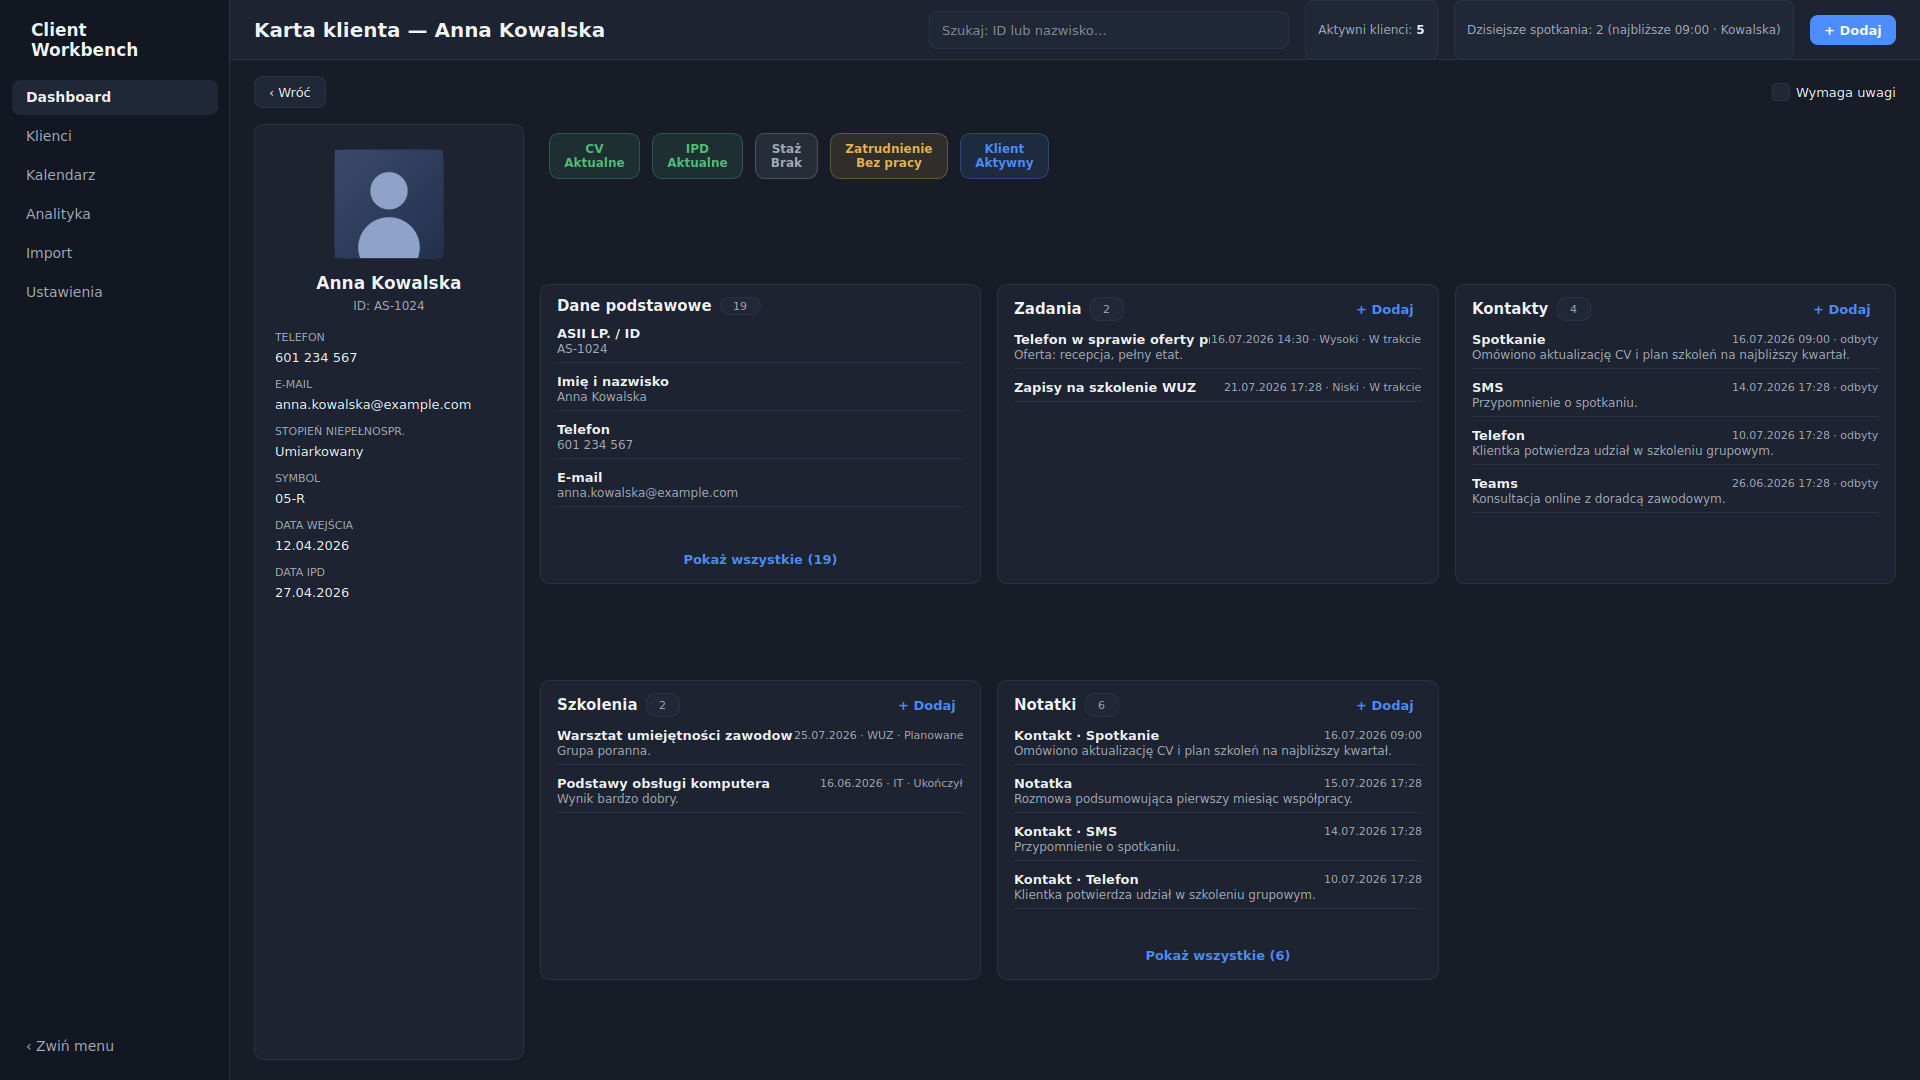
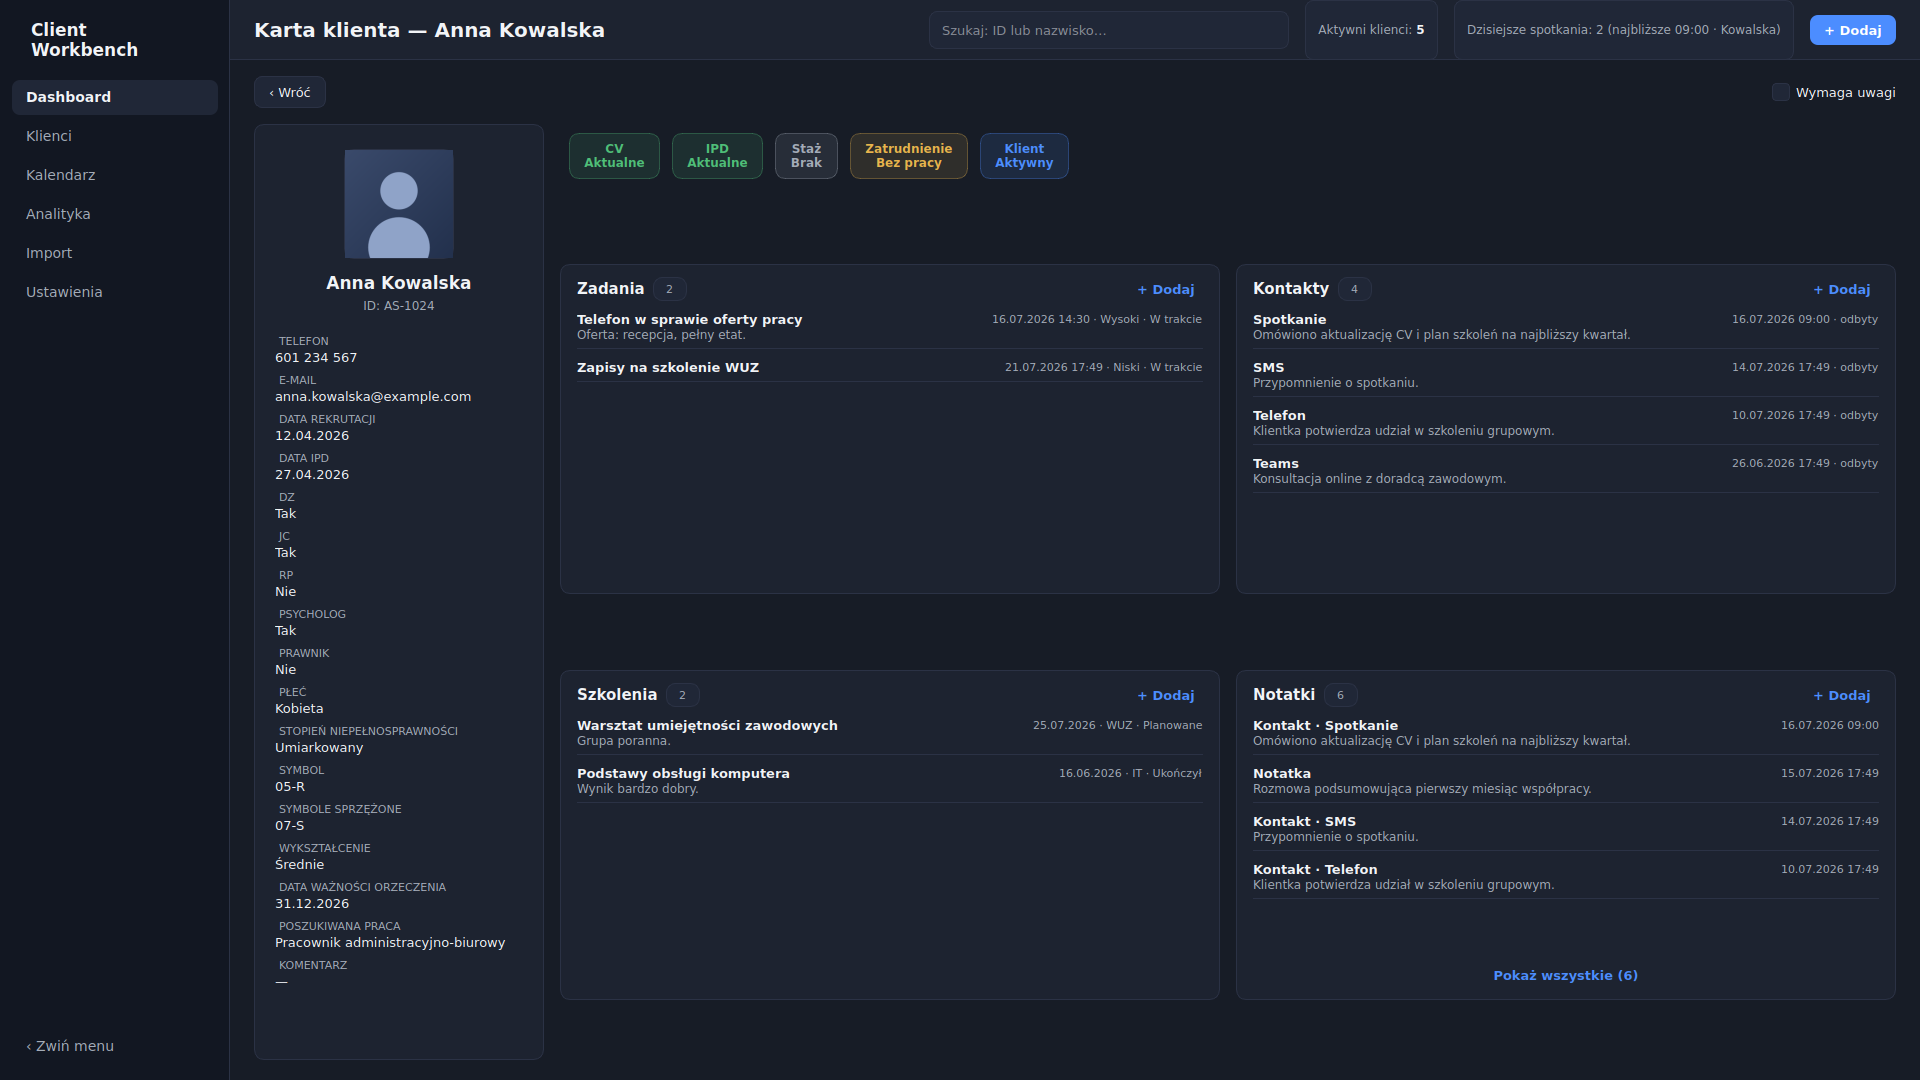
Karta klienta: komplet danych w lewej kolumnie, 4 symetryczne moduły 2x2; tabele bez zawijania tekstu
- dane podstawowe (XLSX/ręczne) w całości pod miniaturką, przewijalne
- moduł 'Dane podstawowe' usunięty z prawej części
- Zadania/Kontakty/Szkolenia/Notatki w siatce 2x2 równej wysokości
- tabele Dashboard/Klienci przycinają długi tekst z '…' zamiast łamać wiersze

Claude-Session: https://claude.ai/code/session_0111JaRPMQvjsJitfGePPiND

diff --git a/src/ui/pages/client_card_page.py b/src/ui/pages/client_card_page.py
@@ -38,9 +38,9 @@ from ui.dialogs.module_view import ModuleViewDialog
 from ui.styles.theme import Palette
 from ui.widgets.pills import QuickStatusPill
 
-LEFT_COLUMN_WIDTH = 270
+LEFT_COLUMN_WIDTH = 290
 PHOTO_SIZE = 110
-MODULE_HEIGHT = 300
+MODULE_HEIGHT = 330
 
 
 def _fmt_date(value) -> str:
@@ -108,25 +108,20 @@ class ClientCardPage(QWidget):
         self._id_lbl = QLabel()
         self._id_lbl.setAlignment(Qt.AlignmentFlag.AlignCenter)
         left_layout.addWidget(self._id_lbl)
-        left_layout.addSpacing(12)
+        left_layout.addSpacing(10)
 
-        self._info_rows: dict[str, QLabel] = {}
-        for key in (
-            "Telefon",
-            "E-mail",
-            "Stopień niepełnospr.",
-            "Symbol",
-            "Data wejścia",
-            "Data IPD",
-        ):
-            caption = QLabel(key)
-            value = QLabel("—")
-            value.setWordWrap(True)
-            value.setTextInteractionFlags(Qt.TextInteractionFlag.TextSelectableByMouse)
-            left_layout.addWidget(caption)
-            left_layout.addWidget(value)
-            left_layout.addSpacing(6)
-            self._info_rows[key] = value
+        # komplet danych podstawowych (import XLSX / ręczne) — przewijalna lista
+        info_scroll = QScrollArea()
+        info_scroll.setWidgetResizable(True)
+        info_scroll.setFrameShape(QFrame.Shape.NoFrame)
+        info_scroll.setStyleSheet("QScrollArea, QScrollArea > QWidget > QWidget { background: transparent; }")
+        info_host = QWidget()
+        self._info_layout = QVBoxLayout(info_host)
+        self._info_layout.setContentsMargins(0, 0, 8, 0)
+        self._info_layout.setSpacing(2)
+        self._info_layout.setAlignment(Qt.AlignmentFlag.AlignTop)
+        info_scroll.setWidget(info_host)
+        left_layout.addWidget(info_scroll, 1)
         self._style_left_labels()
 
         body.addWidget(self._left)
@@ -163,13 +158,25 @@ class ClientCardPage(QWidget):
     def _style_left_labels(self) -> None:
         p = self._palette
         self._id_lbl.setStyleSheet(f"color: {p.text_muted}; font-size: 12px;")
-        for key, value_lbl in self._info_rows.items():
+
+    def _fill_left_info(self) -> None:
+        """Wypełnia lewą kolumnę kompletem danych podstawowych klienta."""
+        c = self._client
+        assert c is not None
+        p = self._palette
+        _clear_layout(self._info_layout)
+        for label, value in self._basic_data_pairs():
+            caption = QLabel(label)
+            caption.setStyleSheet(
+                f"color: {p.text_muted}; font-size: 11px; text-transform: uppercase;"
+                "padding-top: 6px;"
+            )
+            value_lbl = QLabel(value)
+            value_lbl.setWordWrap(True)
+            value_lbl.setTextInteractionFlags(Qt.TextInteractionFlag.TextSelectableByMouse)
             value_lbl.setStyleSheet(f"font-size: 13px; color: {p.text};")
-        for caption in self._left.findChildren(QLabel):
-            if caption.text() in self._info_rows:
-                caption.setStyleSheet(
-                    f"color: {p.text_muted}; font-size: 11px; text-transform: uppercase;"
-                )
+            self._info_layout.addWidget(caption)
+            self._info_layout.addWidget(value_lbl)
 
     # ------------------------------------------------------------------
     def show_client(self, client_id: int) -> None:
@@ -201,12 +208,7 @@ class ClientCardPage(QWidget):
 
         self._name_lbl.setText(client.full_name)
         self._id_lbl.setText(f"ID: {client.external_id}")
-        self._info_rows["Telefon"].setText(client.phone or "—")
-        self._info_rows["E-mail"].setText(client.email or "—")
-        self._info_rows["Stopień niepełnospr."].setText(client.disability_degree or "—")
-        self._info_rows["Symbol"].setText(client.disability_symbol or "—")
-        self._info_rows["Data wejścia"].setText(_fmt_date(client.recruitment_date))
-        self._info_rows["Data IPD"].setText(_fmt_date(client.ipd_date))
+        self._fill_left_info()
 
         self._attention_check.blockSignals(True)
         self._attention_check.setChecked(client.requires_attention)
@@ -255,20 +257,17 @@ class ClientCardPage(QWidget):
 
         _clear_layout(self._grid)
 
+        # 4 symetryczne moduły w siatce 2x2 (dane podstawowe są w lewej kolumnie)
         modules = [
-            ("Dane podstawowe", self._basic_data_entries(), None),
             ("Zadania", self._task_entries(), "Zadanie"),
             ("Kontakty", self._contact_entries(), "Kontakt"),
             ("Szkolenia", self._training_entries(), "Szkolenie"),
             ("Notatki", self._note_entries(), "Notatka"),
         ]
         for index, (title, entries, add_kind) in enumerate(modules):
-            row, col = divmod(index, 3)
+            row, col = divmod(index, 2)
             self._grid.addWidget(self._module_card(title, entries, add_kind), row, col)
-        # wyrównanie: pusta komórka w drugim rzędzie zachowuje równe szerokości
-        filler = QWidget()
-        self._grid.addWidget(filler, 1, 2)
-        for col in range(3):
+        for col in range(2):
             self._grid.setColumnStretch(col, 1)
 
     def _module_card(
@@ -361,12 +360,11 @@ class ClientCardPage(QWidget):
         return row
 
     # ------------------------------------------------------------------
-    def _basic_data_entries(self) -> list[tuple[str, str, str]]:
+    def _basic_data_pairs(self) -> list[tuple[str, str]]:
         c = self._client
         assert c is not None
-        pairs = [
-            ("ASII LP. / ID", c.external_id),
-            ("Imię i nazwisko", c.full_name),
+        # imię, nazwisko i ID są już nad listą (przy zdjęciu)
+        return [
             ("Telefon", c.phone or "—"),
             ("E-mail", c.email or "—"),
             ("Data rekrutacji", _fmt_date(c.recruitment_date)),
@@ -385,7 +383,6 @@ class ClientCardPage(QWidget):
             ("Poszukiwana praca", c.desired_job or "—"),
             ("Komentarz", c.import_comment or "—"),
         ]
-        return [(label, "", value) for label, value in pairs]
 
     def _task_entries(self) -> list[tuple[str, str, str]]:
         c = self._client

diff --git a/src/ui/pages/dashboard_page.py b/src/ui/pages/dashboard_page.py
@@ -79,6 +79,8 @@ class DashboardPage(QWidget):
         self._table.setSelectionMode(QAbstractItemView.SelectionMode.SingleSelection)
         self._table.setEditTriggers(QAbstractItemView.EditTrigger.NoEditTriggers)
         self._table.setFocusPolicy(Qt.FocusPolicy.NoFocus)
+        self._table.setWordWrap(False)  # przy wąskich kolumnach przycinaj z „…", nie zawijaj
+        self._table.setTextElideMode(Qt.TextElideMode.ElideRight)
         self._table.horizontalHeader().setFixedHeight(TABLE_HEADER_HEIGHT)
         self._table.verticalHeader().setDefaultSectionSize(TABLE_ROW_HEIGHT)
         self._table.setHorizontalScrollBarPolicy(Qt.ScrollBarPolicy.ScrollBarAlwaysOff)

diff --git a/src/ui/pages/clients_page.py b/src/ui/pages/clients_page.py
@@ -57,6 +57,8 @@ class ClientsPage(QWidget):
         self._table.setSelectionBehavior(QAbstractItemView.SelectionBehavior.SelectRows)
         self._table.setEditTriggers(QAbstractItemView.EditTrigger.NoEditTriggers)
         self._table.setFocusPolicy(Qt.FocusPolicy.NoFocus)
+        self._table.setWordWrap(False)
+        self._table.setTextElideMode(Qt.TextElideMode.ElideRight)
         self._table.horizontalHeader().setFixedHeight(TABLE_HEADER_HEIGHT)
         self._table.verticalHeader().setDefaultSectionSize(TABLE_ROW_HEIGHT)
         self._table.cellClicked.connect(self._row_clicked)
